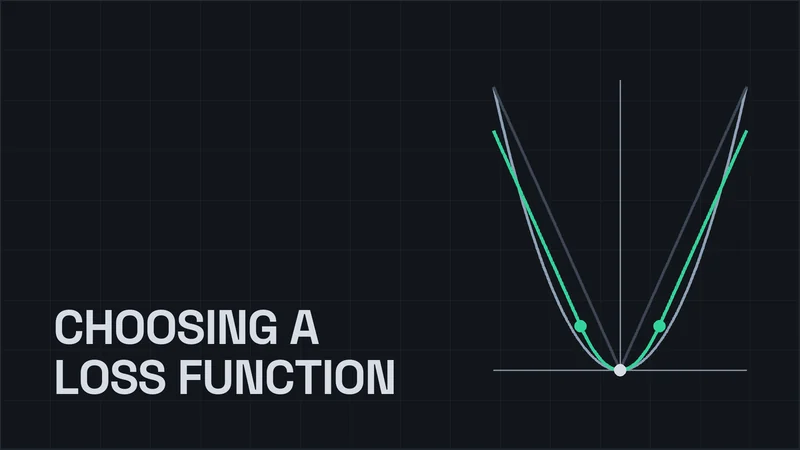
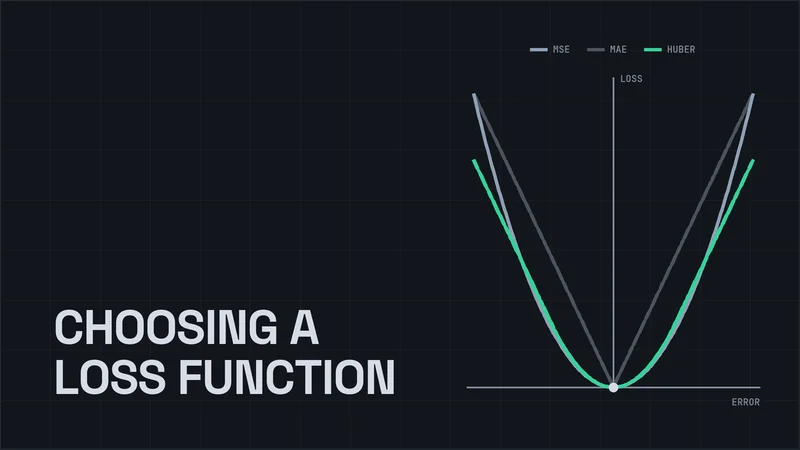
Update LLM and AI/ML skills

Changed region(s): [[0.5938, 0.1556, 0.9688, 0.9022], [0.6562, 0.0933, 0.7812, 0.1244], [0.8125, 0.0933, 0.875, 0.1244]]

diff --git a/index.html b/index.html
@@ -122,13 +122,13 @@
           <div class="skill-group">
             <span class="skill-group-label">AI &amp; ML</span>
             <div class="skill-cloud">
-              <span>TensorFlow</span><span>PyTorch</span><span>scikit-learn</span><span>MLflow</span>
+              <span>TensorFlow</span><span>PyTorch</span><span>scikit-learn</span><span>Hugging Face</span>
             </div>
           </div>
           <div class="skill-group">
             <span class="skill-group-label">LLMs &amp; Agents</span>
             <div class="skill-cloud">
-              <span>LLMs</span><span>RAG</span><span>MCP</span><span>Embeddings</span><span>VLMs</span><span>Hugging Face</span>
+              <span>LLM Evaluation</span><span>RAG</span><span>Agentic AI</span><span>MCP</span>
             </div>
           </div>
           <div class="skill-group">
